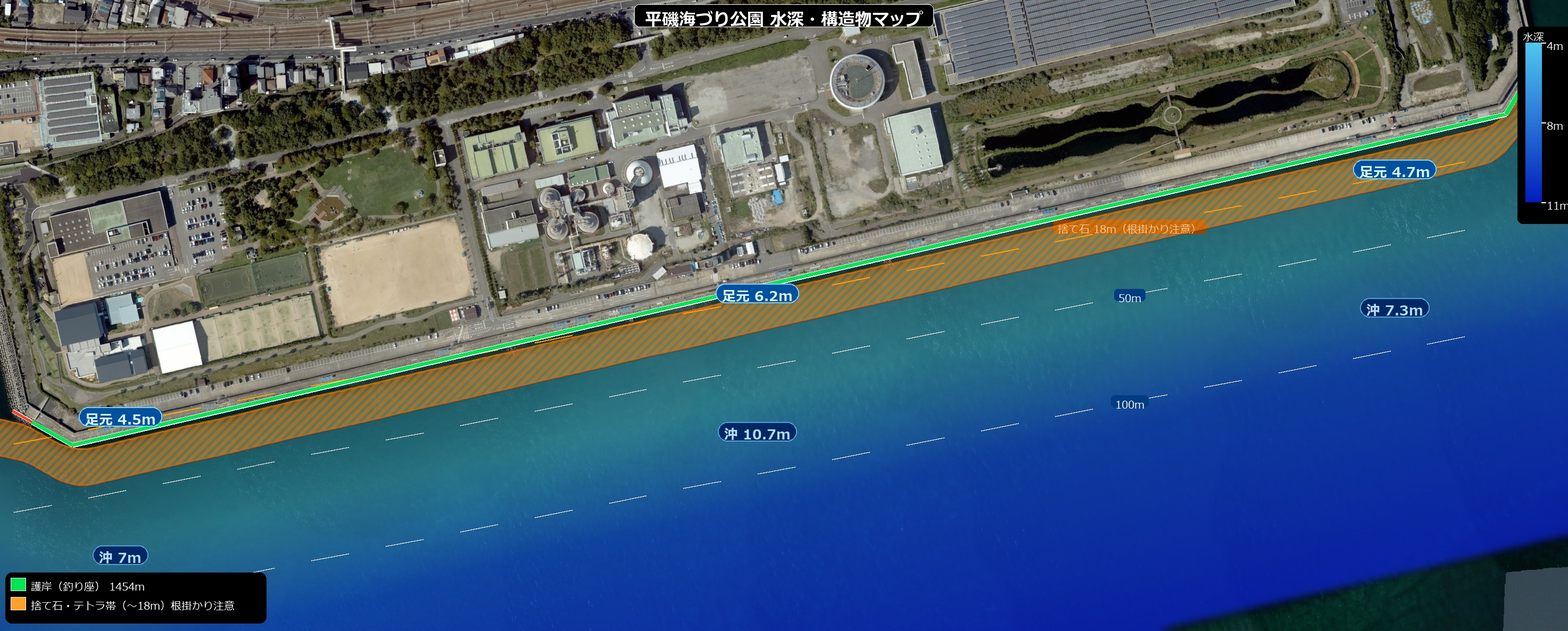
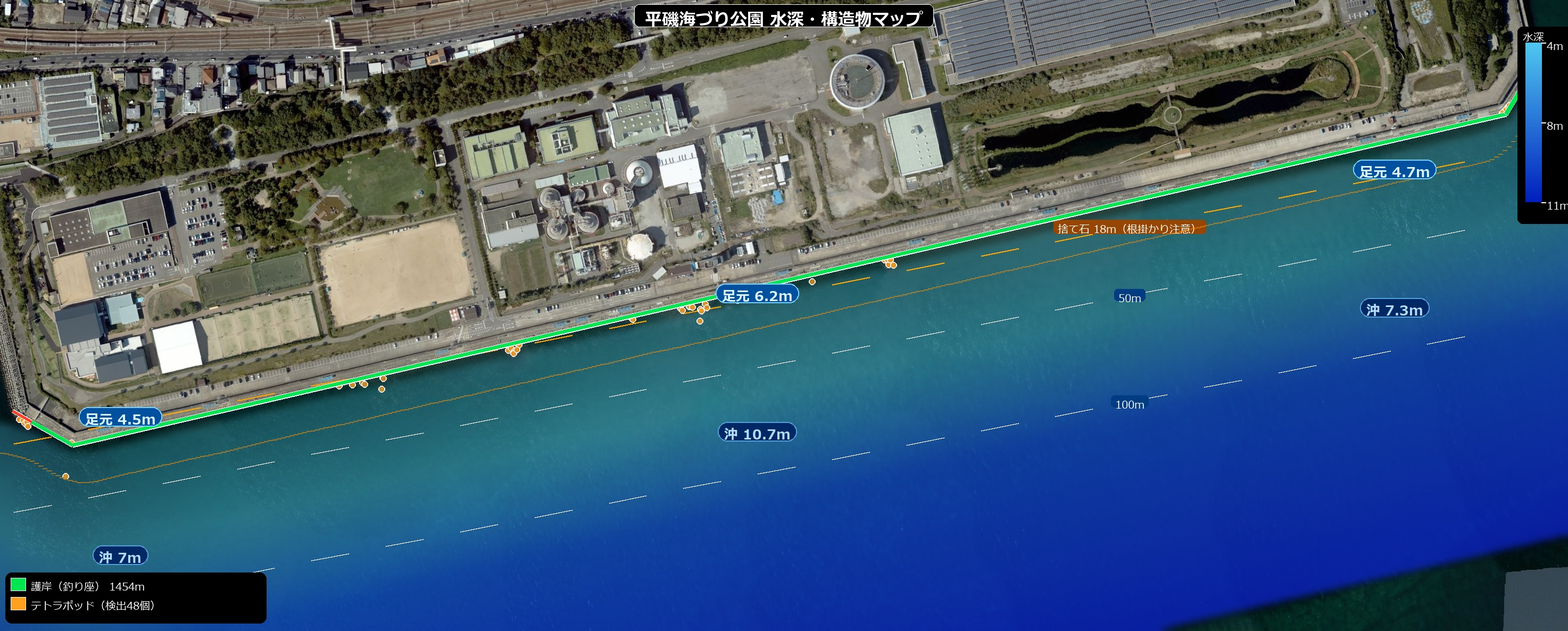
WIP: テトラポッドを航空写真から個別検出・マーカー表示
- ベタ塗りバンド → グリッドベースの個別テトラ検出に変更
- 明るさ+青チャンネル比率で水面とコンクリート構造物を判別
- 48個のテトラポッドを個別マーカー(オレンジ円)で表示
- 18m範囲を薄い破線で表示

Changed region(s): [[0.0, 0.156, 0.9678, 0.7799], [0.0312, 0.9359, 0.1561, 0.9671]]

diff --git a/patent/scripts/generate_combined_map.py b/patent/scripts/generate_combined_map.py
@@ -608,30 +608,75 @@ def generate_combined_map(slug):
             draw_temp.text((lx - dtw // 2 + 8, ly - dth // 2 + 3), label,
                           fill=(255, 255, 255), font=font_small)
 
-    # --- 3. 構造物描画（テトラ帯: 海岸線の先に描画、緑ラインの下に来る）---
-    print("3. 捨て石・テトラ帯描画...")
+    # --- 3. 構造物検出（航空写真からテトラポッドを個別検出）---
+    print("3. テトラポッド検出（航空写真解析）...")
     rip_rap_px = int(18 / 0.25)  # 72px = 18m
-    coast_offset = 14  # 護岸線の下(3.5m)
+    orig_pix = img.load()  # 元の航空写真ピクセル（オーバーレイなし）
 
-    struct_overlay = Image.new("RGBA", (w, h), (0, 0, 0, 0))
-    struct_pixels = struct_overlay.load()
-    for px_x in range(w):
+    # グリッドベース: 8px(2m)セルで明るいピクセルを抽出
+    cell_size = 8
+    best_in_cell = {}
+    for px_x in range(0, w):
         cy = int(coast_y_at_x(px_x))
-        y_start = cy + coast_offset
-        y_end = min(cy + coast_offset + rip_rap_px, h)
-        for py in range(max(0, y_start), y_end):
-            if (px_x + py) % 16 < 10:
-                struct_pixels[px_x, py] = (255, 140, 20, 140)
-            else:
-                struct_pixels[px_x, py] = (255, 160, 40, 80)
-        for lw in range(3):
-            if 0 <= y_start + lw < h:
-                struct_pixels[px_x, y_start + lw] = (255, 120, 0, 230)
-            if 0 <= y_end - 1 - lw < h:
-                struct_pixels[px_x, y_end - 1 - lw] = (255, 100, 0, 200)
-    struct_overlay = struct_overlay.filter(ImageFilter.GaussianBlur(radius=1))
+        y_start = max(0, cy + 6)
+        y_end = min(h - 1, cy + rip_rap_px + 6)
+        for py in range(y_start, y_end):
+            r, g, b = orig_pix[px_x, py][:3]
+            brt = (r + g + b) / 3
+            # 水の青っぽさをチェック: テトラはグレー、水は青い
+            blue_ratio = b / max(r + g + b, 1)
+            # テトラ候補: 水より明るく(>50)、青すぎない(<0.38)
+            if brt < 50 or blue_ratio > 0.38:
+                continue
+            gx, gy = px_x // cell_size, py // cell_size
+            if (gx, gy) not in best_in_cell or brt > best_in_cell[(gx, gy)][0]:
+                best_in_cell[(gx, gy)] = (brt, px_x, py)
+
+    # 周囲セルより明るいセル = テトラポッド候補
+    tetrapod_markers = []
+    for (gx, gy), (brt, x, y) in best_in_cell.items():
+        neighbor_brts = []
+        for dx in range(-2, 3):
+            for dy in range(-2, 3):
+                if dx == 0 and dy == 0:
+                    continue
+                key = (gx + dx, gy + dy)
+                if key in best_in_cell:
+                    neighbor_brts.append(best_in_cell[key][0])
+        if neighbor_brts:
+            avg_n = sum(neighbor_brts) / len(neighbor_brts)
+            if brt > 55 and brt > avg_n + 8:
+                tetrapod_markers.append((x, y, brt))
+        elif brt > 70:
+            tetrapod_markers.append((x, y, brt))
+
+    print(f"   検出テトラ: {len(tetrapod_markers)}個")
+
+    # テトラポッドを個別マーカーで描画
+    struct_overlay = Image.new("RGBA", (w, h), (0, 0, 0, 0))
+    struct_draw = ImageDraw.Draw(struct_overlay)
+    for tx, ty, brt in tetrapod_markers:
+        r = 6
+        # 明るさに応じてマーカーの色を調整
+        alpha = min(220, int(120 + brt))
+        struct_draw.ellipse(
+            [tx - r, ty - r, tx + r, ty + r],
+            fill=(255, 160, 30, alpha),
+            outline=(255, 255, 255, 230), width=2
+        )
+
+    # テトラ帯の範囲を薄い破線で表示（18mライン）
+    for px_x in range(0, w, 8):
+        cy = int(coast_y_at_x(px_x))
+        y_bottom = cy + 6 + rip_rap_px
+        if 0 <= y_bottom < h and px_x % 16 < 10:
+            struct_draw.line(
+                [(px_x, y_bottom), (min(px_x + 8, w - 1), y_bottom)],
+                fill=(255, 140, 0, 140), width=2
+            )
+
     img_rgba = Image.alpha_composite(img_rgba, struct_overlay)
-    print(f"   捨て石・テトラ帯: 護岸全域（18m幅）")
+    print(f"   テトラマーカー描画完了")
 
     # --- 4. 海岸線描画（緑ライン: テトラ帯の上に描画）---
     print("4. 海岸線描画...")
@@ -737,7 +782,7 @@ def generate_combined_map(slug):
         radius=12, fill=(0, 0, 0, 200))
     items = [
         ((0, 230, 80), f"護岸（釣り座） {platform_m:.0f}m"),
-        ((255, 160, 40), "捨て石・テトラ帯（〜18m）根掛かり注意"),
+        ((255, 160, 30), f"テトラポッド（検出{len(tetrapod_markers)}個）"),
     ]
     for i, (color, label) in enumerate(items):
         y = legend_y + i * 36
